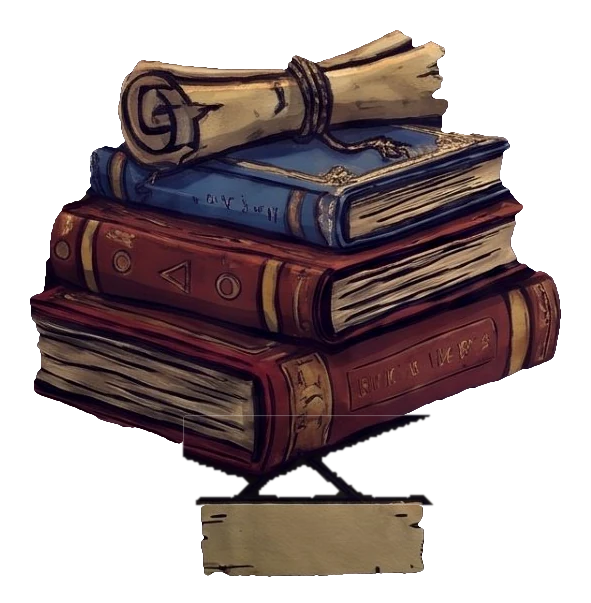
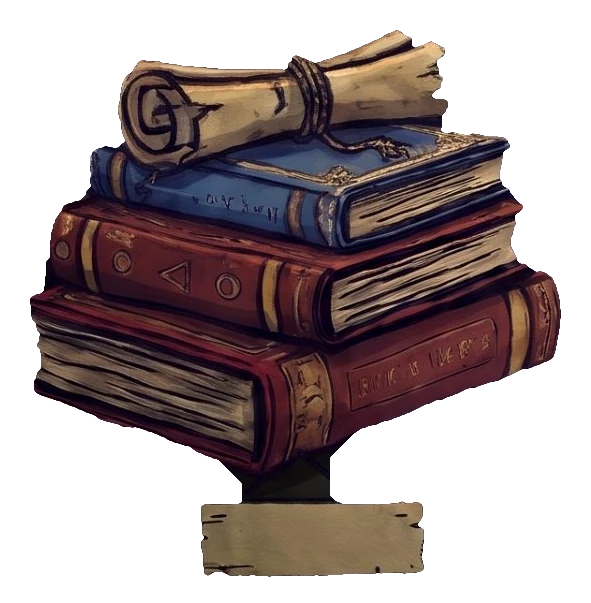
Add files via upload

Changed region(s): [[0.3046, 0.7164, 0.731, 0.8657], [0.5787, 0.6866, 0.731, 0.7463]]

diff --git a/concepts/scenes/workshop.js b/concepts/scenes/workshop.js
@@ -1,7 +1,7 @@
 /* Concept E - The Workshop (hand-drawn layered art, v12 art round).
    Layers: art3/plate.webp (the room, transparent where the video shows) + one transparent cut-out per object (raven/window, construct, books, about, disc).
-   Window, books and construct also have a NAME-hover.webp patch (a second pose) that fades in on hover; every object has a gold outline ring.
-   All art coordinates below are in source-image units (1024 x 572); K converts them to scene units. Images are stored at the master's resolution, 2.5 px per unit (WebP). The gold ring follows the HOVER pose.
+   Window, books and construct also have a NAME-hover.webp patch (a second pose) that fades in on hover; every object has a gold outline ring drawn as a vector path (RING, art units) so it stays sharp at any size.
+   All art coordinates below are in source-image units (1024 x 572); K converts them to scene units. Images are stored at the master's resolution, 2.5 px per unit (WebP). The gold ring follows the HOVER pose; signs and strings live in the plate and are part of the ring.
    Hover = opacity fades only: no CSS filters, no per-frame JS, so it stays smooth.
    To swap art: replace the WebP files in concepts/art3/ (same canvas position) and adjust the numbers here. */
 PF.init({
@@ -19,9 +19,9 @@ PF.init({
   },
   draw:function(svg,P){
     var el=P.el,K=900/572,OX=(1600-1024*K)/2,T='translate('+OX+',0) scale('+K+')';
-    var CUT={raven:{x:49.69,y:19.48,w:233.34,h:296.94},construct:{x:769.19,y:48.10,w:254.81,h:273.09},books:{x:50.09,y:331.93,w:234.93,h:239.70},about:{x:333.52,y:358.96,w:377.24,h:212.67},disc:{x:680.94,y:278.26,w:278.66,h:293.37}};
-    var HOV={raven:{x:159.40,y:96.99,w:189.22,h:129.59},books:{x:69.96,y:242.09,w:212.27,h:166.16},construct:{x:747.73,y:49.69,w:206.31,h:209.89}};
-    var RING={raven:{x:41.74,y:11.53,w:314.83,h:312.84},construct:{x:739.78,y:40.15,w:284.22,h:288.99},books:{x:42.14,y:234.14,w:250.83,h:337.49},about:{x:333.52,y:358.96,w:377.24,h:212.67},disc:{x:680.94,y:278.26,w:278.66,h:293.37}};
+    var CUT={raven:{x:49.69,y:19.48,w:233.34,h:296.94},construct:{x:769.19,y:48.10,w:254.81,h:273.09},books:{x:50.09,y:331.93,w:234.93,h:239.70},about:{x:333.52,y:358.96,w:377.24,h:212.67},disc:{x:674.98,y:275.88,w:284.22,h:295.75}};
+    var HOV={raven:{x:159.40,y:96.99,w:189.22,h:129.19},books:{x:69.96,y:242.48,w:212.27,h:165.76},construct:{x:748.12,y:50.09,w:205.52,h:209.49}};
+    var RING={"about":"M486.53 571.23 485.61 569.24 480.20 568.25 478.61 567.22 477.64 565.66 477.42 541.42 476.96 539.83 475.83 539.00 460.32 537.42 453.17 537.75 436.47 537.01 422.96 537.35 420.97 536.78 418.19 534.40 416.60 533.87 415.01 534.28 411.83 537.07 410.24 537.74 400.70 536.62 391.95 537.73 378.83 538.55 364.12 538.41 359.35 536.82 353.39 532.74 347.43 527.13 345.38 523.13 344.78 517.57 345.98 512.00 348.50 506.83 352.99 500.95 376.84 465.39 380.84 456.35 383.52 447.20 384.80 444.76 388.37 441.79 393.14 439.78 401.09 439.86 406.38 442.43 407.99 441.64 410.71 420.57 412.72 415.80 413.76 410.63 414.42 403.08 413.61 399.90 413.70 398.31 415.40 394.31 419.78 390.39 423.75 389.62 430.51 390.20 432.21 391.16 433.69 393.66 435.00 394.73 444.52 398.71 452.77 401.22 454.94 402.68 455.32 404.27 453.96 405.83 440.45 408.20 438.46 410.09 437.92 411.83 441.22 420.17 445.22 427.48 455.16 443.87 459.13 448.94 460.72 449.31 467.08 448.44 498.09 448.69 501.66 448.16 504.84 448.48 506.13 448.00 509.01 437.66 508.44 436.47 505.66 433.69 505.02 432.10 505.25 429.32 506.85 425.34 506.64 423.75 501.27 420.94 488.94 410.73 484.17 405.95 483.42 403.88 485.49 398.71 491.07 390.76 496.10 388.05 498.48 387.81 499.35 387.18 498.35 384.40 494.70 379.63 494.59 377.64 495.70 376.65 498.88 375.28 503.25 371.51 508.42 370.18 511.20 370.94 514.33 373.66 516.60 384.40 517.40 385.99 519.78 387.98 522.34 391.53 525.91 391.83 527.11 392.37 528.30 395.53 529.89 396.61 548.57 396.87 550.16 397.48 552.14 399.90 553.34 400.50 557.32 401.44 562.88 401.79 576.00 399.65 584.75 399.17 587.93 396.96 592.30 395.51 593.81 393.54 594.90 390.36 596.67 389.13 598.26 389.36 601.04 390.84 605.02 389.89 607.01 389.98 611.94 392.35 616.63 398.71 617.38 403.88 616.76 407.45 620.03 413.02 619.31 419.78 621.28 423.75 622.57 428.52 622.53 429.71 621.71 430.99 617.34 432.39 616.05 434.09 616.63 438.06 619.07 446.41 620.92 447.37 634.83 447.22 645.96 445.39 647.95 445.84 649.54 446.89 653.13 454.76 653.89 457.94 655.90 461.83 659.99 466.68 661.89 471.06 665.84 477.72 670.91 484.17 671.92 487.35 672.60 492.82 676.67 496.50 680.55 502.37 688.69 512.80 692.07 519.58 695.33 522.34 698.86 527.50 698.04 529.59 694.06 531.63 677.37 535.19 672.60 535.77 649.14 536.66 624.10 539.37 621.71 539.14 619.73 538.20 610.28 528.70 608.60 528.03 607.80 528.54 607.50 529.49 607.83 536.25 607.03 537.44 605.81 538.01 594.29 538.58 589.12 537.47 585.54 537.45 579.18 537.94 573.61 540.06 560.67 541.02 559.39 541.81 558.90 543.40 558.57 566.46 557.71 567.81 556.52 568.51 551.51 569.24 550.59 571.23Z","disc":"M810.45 571.23 809.74 568.62 807.75 566.73 803.78 565.68 797.42 565.70 794.24 564.05 793.04 562.78 791.90 539.43 792.28 536.65 793.95 533.47 793.40 531.88 777.14 524.56 772.77 525.70 768.40 525.69 764.82 525.17 760.66 523.13 758.06 522.65 755.86 523.13 751.70 525.14 745.34 525.29 735.80 523.93 734.21 523.28 730.95 520.35 730.33 517.96 734.07 512.40 738.38 507.23 739.78 504.29 740.15 502.06 739.69 499.68 737.65 496.10 736.29 487.75 734.11 484.17 731.43 482.57 714.73 479.59 699.63 480.32 694.86 479.57 692.07 477.83 687.64 472.25 686.68 470.66 686.34 468.67 689.69 461.96 696.05 457.67 704.80 453.79 715.13 451.52 717.53 449.99 717.65 448.00 714.13 431.30 712.81 418.19 713.22 399.50 715.00 386.78 718.18 373.66 720.86 365.71 725.17 355.38 730.84 344.65 739.13 332.72 749.57 320.40 755.28 315.13 765.22 307.47 775.55 301.00 791.45 293.60 803.38 289.97 813.71 287.95 825.64 287.05 835.98 287.07 844.72 287.94 854.26 289.71 866.19 293.20 873.34 296.04 887.65 303.41 899.98 311.93 907.72 318.81 915.23 326.36 922.55 335.50 927.84 343.45 934.45 355.38 939.45 367.30 944.23 383.20 946.35 394.73 947.62 407.06 947.62 418.58 946.73 429.32 945.09 439.65 943.14 448.00 938.77 461.52 934.84 470.66 928.98 482.19 928.69 485.37 930.03 489.74 930.32 494.11 932.69 500.07 930.81 504.84 930.76 509.22 929.98 511.20 928.99 512.27 927.40 512.95 923.43 512.80 921.04 513.28 916.27 517.35 911.11 516.67 907.53 517.56 899.18 524.29 894.01 527.19 888.45 526.99 884.33 525.52 882.88 525.45 868.26 531.88 867.59 532.67 867.78 533.86 871.75 535.14 872.83 537.04 872.89 560.89 872.20 563.28 869.37 564.36 841.54 565.92 837.90 567.65 836.86 569.24 836.45 571.23Z","raven":"M153.84 306.90 128.40 307.16 123.23 305.84 121.72 304.10 120.16 296.15 120.06 285.81 119.37 281.44 119.82 279.06 121.89 275.88 123.23 274.95 130.39 274.65 132.41 273.89 139.21 267.53 139.60 266.34 138.73 265.40 132.77 264.36 128.00 264.31 113.29 266.27 67.98 266.25 65.19 265.71 62.81 264.58 60.82 262.83 59.54 260.77 58.12 254.81 58.19 242.88 58.70 240.10 59.79 237.71 64.22 233.34 65.10 231.35 65.25 205.91 66.69 199.55 65.28 193.19 64.45 170.14 65.68 162.98 67.92 156.22 65.31 145.49 65.28 125.22 67.32 116.87 70.45 109.71 70.46 108.12 69.29 104.15 69.33 100.57 72.54 86.66 74.80 80.70 79.30 73.54 82.45 69.57 84.27 68.08 87.85 66.70 89.28 65.59 91.70 58.83 94.61 54.72 102.96 47.68 119.65 35.87 126.65 34.58 138.73 29.73 152.25 27.24 173.32 27.11 185.64 29.73 191.60 32.60 199.95 34.50 205.91 37.28 223.01 50.38 226.58 53.69 229.76 59.43 234.93 62.27 236.91 64.00 244.32 77.12 251.72 98.19 252.34 101.37 252.51 108.52 254.29 114.09 254.48 125.61 255.09 127.60 256.40 129.02 258.78 129.31 264.35 127.55 266.73 127.27 273.49 128.80 282.24 126.51 293.11 122.43 302.10 117.66 309.66 112.63 312.45 111.57 314.43 111.78 315.53 112.89 315.60 114.88 313.44 119.65 314.04 120.53 315.63 120.52 333.91 111.16 336.30 110.59 337.89 111.10 338.62 112.10 338.24 114.88 334.41 120.45 327.95 127.11 327.55 128.45 328.35 129.12 329.94 129.09 337.89 126.60 342.26 125.78 344.25 126.51 344.85 128.40 343.45 131.32 335.50 138.85 326.76 143.38 318.61 145.49 317.38 146.29 317.61 147.38 319.20 148.08 331.53 149.45 332.90 150.26 333.65 151.85 333.26 153.44 332.32 154.43 326.76 157.30 323.98 158.09 318.81 158.35 317.21 159.01 316.73 160.60 319.20 162.86 319.83 164.17 319.62 165.76 318.41 167.29 314.43 169.02 309.66 168.89 307.17 169.74 305.29 171.01 303.25 174.11 301.71 175.52 293.64 178.09 291.38 181.85 289.79 183.19 286.61 184.17 280.65 184.82 277.47 188.54 272.70 189.32 271.20 190.01 269.09 193.99 267.53 195.51 265.54 196.11 261.96 195.87 259.98 197.39 256.46 205.91 256.29 212.27 255.22 219.03 254.90 228.57 255.29 230.16 256.40 231.77 260.37 234.18 262.32 236.12 264.14 240.89 265.39 247.25 265.43 252.42 263.90 259.18 261.96 262.30 259.58 263.65 256.40 264.28 204.72 264.32 199.55 265.06 190.81 265.16 182.46 266.55 181.80 267.13 182.18 268.32 188.12 273.09 190.01 273.80 197.17 274.52 198.76 275.47 199.79 277.07 200.30 279.85 200.28 299.73 198.70 304.89 197.57 305.80 195.98 306.03 158.61 306.06 153.84 306.90Z","books":"M218.63 561.79 131.98 562.05 128.80 561.60 127.90 560.50 127.66 558.91 127.90 531.08 128.80 529.97 129.99 529.60 140.32 529.51 142.46 529.09 145.15 526.71 145.36 525.12 144.72 523.53 136.75 515.64 124.81 510.01 118.06 507.78 106.11 502.86 98.58 501.79 90.63 499.39 85.77 496.89 64.40 488.47 63.07 486.56 62.90 484.17 65.40 477.42 65.57 473.44 64.34 469.07 64.63 464.70 61.87 457.54 61.37 451.98 62.16 449.59 65.92 447.20 66.88 445.61 67.74 436.47 69.13 432.50 69.73 424.55 71.37 418.98 75.13 413.19 81.89 410.14 84.75 405.86 85.32 401.49 85.07 395.93 83.43 391.55 83.87 389.57 86.26 387.70 92.62 384.57 99.78 381.80 111.30 379.30 113.34 377.64 113.16 375.65 107.85 367.30 104.04 360.15 101.45 351.80 102.56 336.30 106.42 327.16 108.92 322.75 111.70 321.30 127.60 319.95 140.72 318.13 146.68 317.96 159.40 315.85 164.17 314.18 168.21 310.46 172.12 308.75 174.91 308.16 184.84 307.66 187.36 306.48 215.06 286.80 217.44 285.51 219.83 285.11 222.61 285.55 228.97 288.07 236.92 288.66 240.50 290.46 242.88 292.48 245.37 296.55 246.59 300.52 247.01 303.30 246.49 311.25 246.89 312.84 248.79 316.02 249.19 318.41 249.07 323.58 247.86 327.55 246.06 330.38 243.28 332.42 240.50 333.69 226.58 337.70 207.11 341.86 200.35 344.06 198.08 345.84 197.77 347.03 198.35 348.62 200.97 350.61 204.32 351.03 211.48 350.43 215.45 351.66 218.24 353.66 220.40 356.57 222.34 361.34 223.24 365.71 222.43 368.50 220.22 369.91 216.65 370.56 215.06 370.38 213.60 368.89 211.48 363.42 209.30 361.34 206.31 360.22 197.57 360.06 195.18 359.54 192.80 357.84 189.61 353.39 188.02 352.49 185.64 352.17 180.87 352.26 177.69 353.36 163.78 362.17 157.07 365.71 155.30 367.70 155.58 368.50 156.62 368.93 164.97 368.72 167.00 367.70 169.75 364.52 171.73 363.06 174.91 361.59 177.69 361.43 179.68 362.49 180.80 364.12 181.06 366.11 180.03 370.09 181.66 371.78 190.81 373.89 208.70 376.27 226.98 379.92 240.10 381.33 242.88 382.28 245.27 384.82 251.04 386.39 252.44 387.98 252.83 389.57 250.43 393.80 249.30 400.30 249.50 402.68 250.43 404.79 257.39 412.62 257.92 413.81 257.52 415.40 255.47 418.19 255.28 420.97 253.70 426.93 254.01 430.10 256.85 435.28 262.32 438.46 265.94 439.33 267.93 440.33 270.13 442.43 271.59 445.61 272.88 450.78 273.38 457.54 271.29 471.06 270.42 473.44 269.12 474.96 264.35 477.24 256.40 479.77 248.45 483.40 235.73 487.01 219.11 493.32 208.70 497.92 193.99 502.83 190.25 505.24 183.33 512.40 183.32 513.59 184.52 514.78 205.12 528.99 207.11 529.49 217.84 529.60 219.74 530.68 220.18 533.07 220.17 558.91 219.74 560.89 218.63 561.79Z","construct":"M1023.60 269.08 1002.53 267.09 989.02 267.12 958.01 268.87 957.76 269.91 958.63 271.11 970.34 281.77 972.72 282.60 979.08 282.81 980.58 283.83 981.01 285.81 981.06 300.92 981.68 304.89 980.78 309.66 979.48 310.96 909.12 310.96 908.01 310.06 907.58 308.07 907.57 286.21 908.01 283.83 909.52 282.81 916.27 282.60 918.26 281.86 929.26 271.90 929.88 271.11 929.79 270.30 926.21 269.88 918.66 270.55 911.11 270.55 903.16 270.18 896.00 268.31 866.98 268.67 858.63 267.54 844.72 267.20 836.37 262.55 830.98 258.39 822.46 255.81 816.10 252.35 812.52 252.77 811.33 252.42 804.81 247.65 800.69 241.69 799.65 238.91 799.16 235.33 799.12 228.57 800.04 223.80 802.58 221.47 806.16 220.34 816.10 220.21 822.46 219.11 846.71 218.22 849.09 217.71 850.66 216.65 853.06 212.67 856.82 209.89 857.32 207.90 856.99 202.34 856.08 199.16 854.26 195.98 849.61 190.81 848.70 190.45 847.75 191.20 847.20 197.17 845.46 201.14 843.93 202.57 838.76 205.59 835.98 210.63 831.60 213.61 821.66 215.30 815.70 215.40 796.62 212.85 790.26 211.50 781.91 206.74 773.17 204.04 764.02 199.66 755.28 194.12 753.24 191.60 752.21 188.02 753.51 173.71 755.47 166.56 759.25 160.28 762.66 153.04 766.41 149.39 768.40 148.56 770.78 148.32 781.91 148.52 788.67 151.92 795.03 152.49 799.01 153.78 802.98 155.92 805.66 158.61 807.01 161.39 807.88 166.16 809.74 168.32 816.50 170.73 827.63 173.16 829.61 172.74 831.02 170.53 831.27 167.75 830.42 166.16 827.15 162.58 825.80 158.61 826.26 157.81 827.23 157.47 832.40 158.59 834.72 157.02 835.07 155.43 833.67 153.84 830.81 152.29 824.84 153.89 820.47 152.57 818.09 154.27 816.89 154.04 815.70 153.08 813.44 149.07 813.31 147.08 815.30 144.80 819.16 142.31 819.80 141.12 819.77 139.93 817.43 133.57 811.33 131.26 810.03 129.99 809.17 127.60 809.07 124.42 809.74 122.74 811.33 121.64 815.84 120.05 817.30 117.66 817.89 112.89 813.98 106.93 814.79 102.96 816.01 100.57 820.07 95.89 822.86 94.13 826.04 93.51 830.41 94.36 832.40 93.67 833.61 91.83 834.64 86.66 835.51 84.67 837.57 82.92 840.75 81.68 843.93 81.20 846.71 81.89 853.40 87.85 855.45 88.75 857.44 88.11 860.22 84.53 862.61 83.33 867.78 83.24 874.53 84.99 877.71 84.31 881.75 81.89 883.59 79.50 884.04 76.72 882.69 71.95 882.70 69.96 883.86 67.58 886.46 64.88 889.24 63.25 892.82 62.48 895.20 62.71 899.58 64.47 901.57 64.40 902.76 63.28 904.25 58.83 906.05 56.45 910.31 54.55 915.08 54.28 919.06 55.31 921.09 56.45 922.02 58.04 923.03 62.18 925.02 64.29 927.01 64.83 932.57 63.37 936.55 63.67 940.52 66.25 942.84 69.96 943.12 72.35 941.78 77.52 941.93 80.70 943.30 83.54 946.88 86.67 948.30 88.65 949.09 91.03 949.20 94.21 948.76 96.99 947.68 99.20 941.71 103.33 940.12 105.77 939.76 108.52 941.12 113.29 941.05 117.27 942.50 119.25 949.44 122.83 949.23 126.41 952.28 129.59 954.43 133.88 957.76 137.94 959.74 142.31 959.66 147.88 954.43 156.38 954.05 161.39 954.83 164.47 958.72 171.33 959.92 176.89 962.84 183.25 963.04 186.04 961.65 189.61 961.82 190.81 965.57 193.73 966.95 196.37 967.44 203.13 966.82 207.50 964.67 213.86 965.15 216.25 968.62 219.03 974.71 221.21 987.83 221.49 989.81 222.55 993.50 225.79 996.57 226.61 1006.51 226.30 1009.80 223.80 1011.36 220.22 1012.47 219.15 1023.60 218.28Z"};
     var SIGN={raven:[123,276,75,29],books:[129,531,90,30],construct:[909,284,71,26],about:[479,536,79,30],disc:[794,536,78,27]};
     P.defs(
       '<radialGradient id="vig" cx=".5" cy=".5" r=".78"><stop offset=".62" stop-color="#0a0604" stop-opacity="0"/><stop offset="1" stop-color="#0a0604" stop-opacity=".5"/></radialGradient>'
@@ -36,7 +36,8 @@ PF.init({
     /* 2 - cut-out objects as clickable layers */
     function object(key,name,hit,label){
       var g=el('g',{class:'cut'},svg),w=grp(g,{transform:T}),c=CUT[name];
-      pic(w,name+'-ring',RING[name],'ring');
+      var rg=grp(w,{class:'ring'});
+      ['rg1','rg2','rg3'].forEach(function(c){el('path',{d:RING[name],class:c,'pointer-events':'none'},rg)});
       pic(w,name,c);
       if(HOV[name])pic(w,name+'-hover',HOV[name],'hov');
       var s=SIGN[name],tg=grp(w,{class:'wtag'});

diff --git a/concepts/core/core.css b/concepts/core/core.css
@@ -414,3 +414,8 @@ body[data-theme=workshop] .pf-tip{background:#efe1bc;color:#2a1b12;border:2px so
 body[data-theme=workshop] .pf-tip b{color:#7a3f12}
 @media (max-width:760px){body[data-theme=workshop] .pf-tabs{margin-top:40px;padding:0 14px;flex-wrap:wrap}.pf-copy{margin-left:0}}
 @media (max-width:760px){body[data-theme=workshop] .pf-tabs{flex-wrap:nowrap;margin-top:38px;padding:0 12px}body[data-theme=workshop] .pf-tab{border-width:5px;padding:0 5px;font-size:11.5px;margin:0 2px 4px 0}}
+/* v14: vector hover ring (three strokes = crisp core + soft halo, no filters) */
+.hot.cut .ring path{fill:none;stroke:#ffd678;stroke-linejoin:round;stroke-linecap:round}
+.hot.cut .ring .rg1{stroke-width:5.2;stroke-opacity:.12}
+.hot.cut .ring .rg2{stroke-width:3;stroke-opacity:.22}
+.hot.cut .ring .rg3{stroke-width:1.25;stroke-opacity:.95}

diff --git a/README.md b/README.md
@@ -25,7 +25,7 @@ crossroads.html, wizard.html, dungeon.html, guild.html, plus a gallery at `conce
 - To make one the real home page later, copy its html file to the repo root as `index.html` and fix the three relative paths (core/, scenes/, ../).
 
 ### The Workshop (hand-drawn, layered)
-`concepts/workshop.html` + `concepts/scenes/workshop.js`. Layers live in `concepts/art3/` (WebP, 2 px per art unit): `plate.webp` (the room, transparent where the video shows), one cut-out per object (`raven` = window, `construct`, `books`, `about`, `disc` = rune plate) and a gold outline `NAME-ring.webp` for each. The window, books and construct also have a `NAME-hover.webp` patch (a second pose) that fades in on hover. `concepts/art2/` now only holds the menu icons.
+`concepts/workshop.html` + `concepts/scenes/workshop.js`. Layers live in `concepts/art3/` (WebP, 2 px per art unit): `plate.webp` (the room, transparent where the video shows), one cut-out per object (`raven` = window, `construct`, `books`, `about`, `disc` = rune plate) The gold hover outline is a vector path per object (the `RING` table in `workshop.js`), so it stays sharp at any size; the hanging signs and their strings live in `plate.webp`. The window, books and construct also have a `NAME-hover.webp` patch (a second pose) that fades in on hover. `concepts/art2/` now only holds the menu icons.
 ### Workshop panel skin (UI kit)
 The panels in the Workshop concept use hand-drawn UI pieces from `concepts/ui/` (frame, title plaque, close button, buttons, badges, dividers, bullet, scrollbar). The frame is a CSS 9-slice (`border-image`), the plaque and buttons are 3-slice, so they stretch to any size. The skin lives at the bottom of `concepts/core/core.css`, scoped to `body[data-theme=workshop]`; swap the PNGs to re-skin.
 
